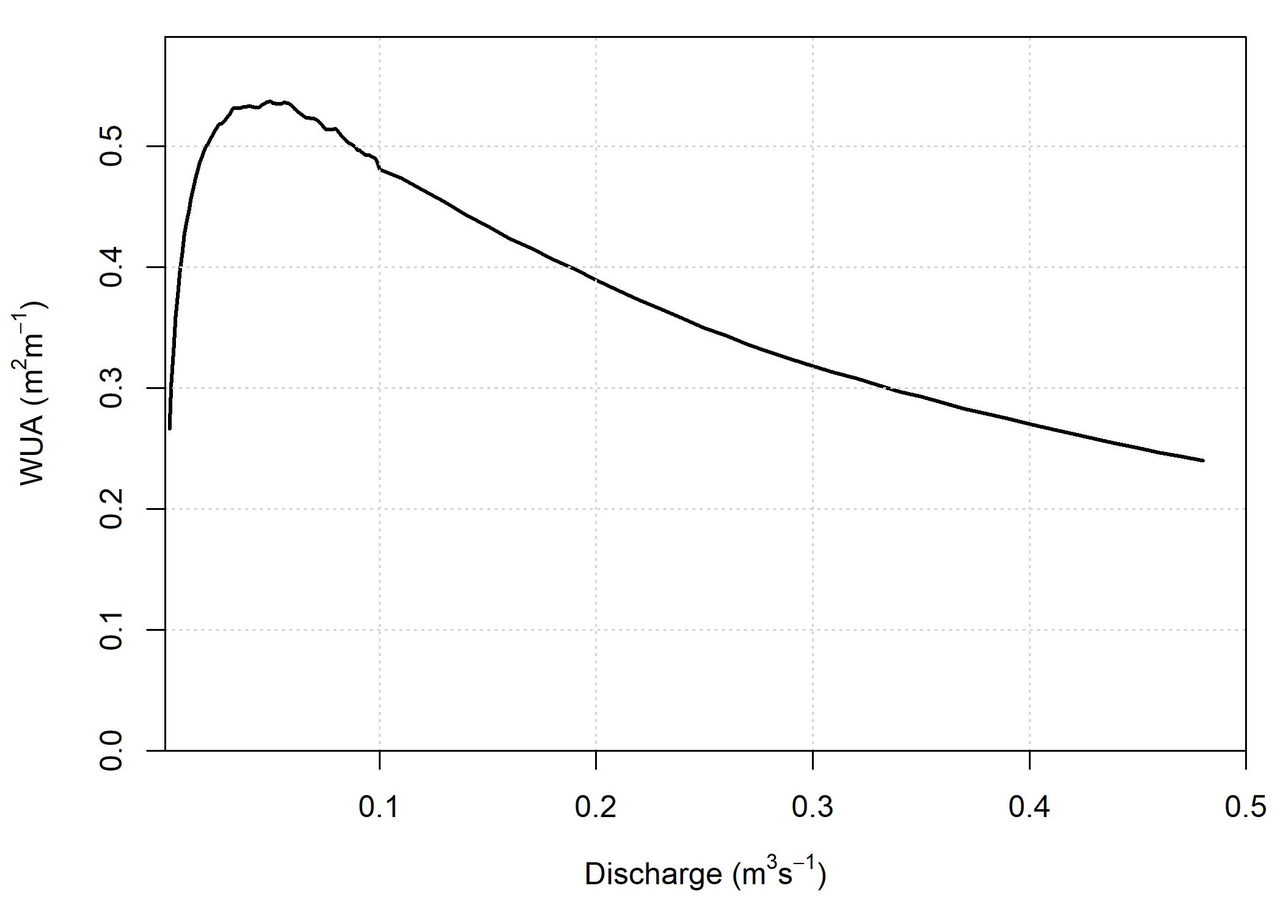
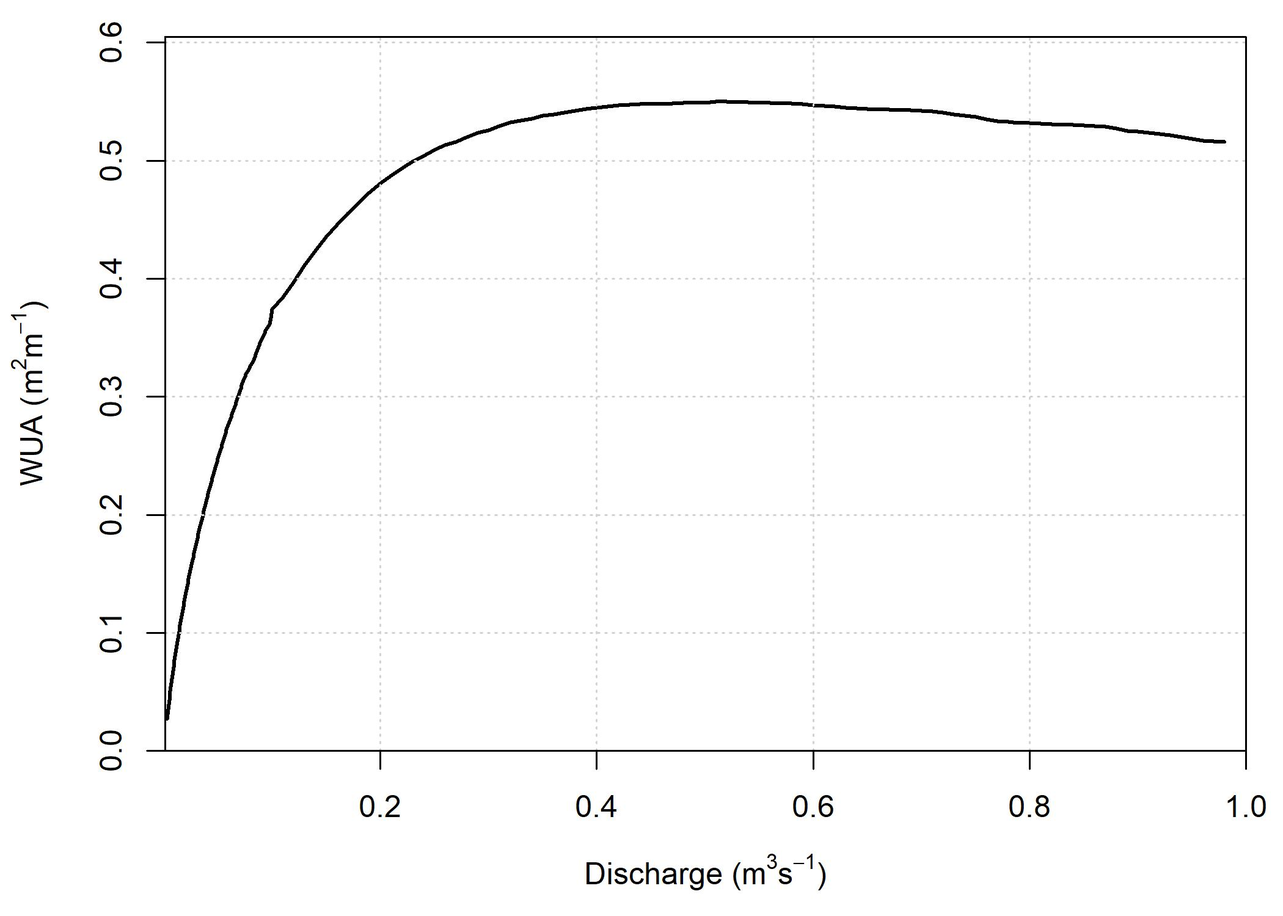
edits to guidance page of website

diff --git a/docs/guidance.html b/docs/guidance.html
@@ -314,29 +314,33 @@ $(document).ready(function () {
 <p><br> <br></p>
 <div id="introduction" class="section level1">
 <h1>Introduction</h1>
-<p>This page provides a guide for the use of the Geomorphic Approach for conducting instream flow assessments. Generally, the intent of instream flow assessments is to quantify available fish habitat at different flow levels using a metric called weighted usable area, (<em>WUA</em>). These relationships are often used to support water allocation and management decisions.</p>
-<p>There are two main components for determining the <em>WUA</em> of a stream: (1) hydraulic data to characterize the depth and velocity characteristics of the stream, and (2) a biological model that describe the relevant species’ preference for those hydraulic characteristics, known as habitat suitability curves (HSCs). Observations that characterize the substrate and cover characteristics and the associated fish preferences are also often used to calculate <em>WUA</em>.</p>
-<p>Instream flow assessments using conventional methodologies are time consuming and expensive to implement and they can only represent static channel conditions that represent a snapshot in time. The Geomorphic Approach has been designed to address these limitations. I can be implemented using minimal data which reduces the required fieldwork, data processing, and computing time, and provides considerable cost-savings compared to conventional approaches.</p>
-<p>The Geomorphic Approach has three distinct components: (1) a reach-averaged hydraulic simulator, (2) statistical distributions of depths and velocity that are used to calculate <em>WUA</em>, and (3) a geomorphic regime model that can be used to predict how environmental change could affect channel conditions. These instructions are primarily focused on the implementation of the hydraulic simulator and statistical distribution components of the Geomorphic Approach. Readers who are interested in the theoretical underpinnings of the this approach are referred to McParland et al. (2016) for information on the hydraulic simulator, Saraeva and Hardy (2009) and Schweizer et al. (2007) for information on the statistical distributions, and Eaton et al. (2004) for information on the regime model. Additionally, we are also in the process of conducting an evaluation of the Geomorphic Approach in eight streams located in western Canada. Once the findings of this evaluation become available we will share them on this webiste. Please check out the References tab for more links to these studies.</p>
+<p>This page provides a guide for the use of the Geomorphic Approach for conducting instream flow assessments. Generally, the intent of instream flow assessments is to quantify available fish habitat at different flow levels using a metric called weighted usable area (<em>WUA</em>). The results of instream flow assessments are often used to support water allocation and management decisions.</p>
+<p>There are two main components for determining the <em>WUA</em> of a stream: (1) hydraulic data to characterize the depth and velocity characteristics of the stream, and (2) a biological model that describe the relevant species’ preference for those hydraulic characteristics, known as habitat suitability curves (HSCs). Observations that characterize the substrate and cover characteristics and the associated fish preferences may also be used to calculate <em>WUA</em>.</p>
+<p>Instream flow assessments using conventional methods are time consuming and expensive to implement and they only represent static channel conditions that represent a snapshot in time. The Geomorphic Approach has been designed to address these limitations by improving the hydraulic components of instream flow assessments. It can be implemented using minimal field data, and requires significantly less data processing and computing time compared to conventional methods.</p>
+<p>The Geomorphic Approach has three distinct components:</p>
+<ol style="list-style-type: decimal">
+<li>A reach-averaged hydraulic simulator,</li>
+<li>statistical distributions of depths and velocity that are used to calculate <em>WUA</em>, and</li>
+<li>a geomorphic regime model that can be used to predict how environmental change could affect channel conditions.</li>
+</ol>
+<p>This guidance is focused on the implementation of the hydraulic simulator and statistical distribution components of the Geomorphic Approach. Readers who are interested in the theoretical underpinnings of the this approach are referred to McParland et al. (2016) for information on the hydraulic simulator, Saraeva and Hardy (2009) and Schweizer et al. (2007) for information on the statistical distributions, and Eaton et al. (2004) for information on the geomorphic regime model. An evaluation of the Geomorphic Approach in eight streams located in western Canada is also in progress. Once the findings of this evaluation become available they will be shared on this webiste. Please check out the References tab for more links to these studies.</p>
 <p><br></p>
 <div id="model-overview" class="section level2">
 <h2>Model Overview</h2>
-<p>The hydraulic data necessary to Geomorphic Approach execute the Geomorphic Approach can be collected during one field visit that does not have to coincide with specific flow conditions. To calculate <em>WUA</em>, users currently must upload their own HSCs. The Geomorphic Approach produces distributions of channel hydraulics at the reach scale. Currently, the Geomorphic Approach is unable to model the habitat conditions of individual channel units, such as pools or riffles.</p>
+<p>The hydraulic data necessary to execute the Geomorphic Approach can be collected during one field visit that does not have to coincide with specific flow conditions. To calculate <em>WUA</em>, users must define their own HSCs. The Geomorphic Approach produces distributions of channel hydraulics at the reach scale. Currently, the Geomorphic Approach is unable to model the habitat conditions of individual channel units, such as pools or riffles.</p>
 <p>The hydraulic simulator component of the Geomorphic Approach uses a reach-averaged channel cross section of bankfull geometry. Using the input data, an index of bankfull channel shape (<em>b</em>) is calculated that ranges from 0 (rectangular channel) to 1 (highly skewed channel). To simulate the hydraulics of flows below bankfull, the model iteratively drops the water level until the point of zero discharge. For each modelled water level, mean velocity and depth is calculated.</p>
-<p>Following the prediction of reach-averaged hydraulics, the next step is to apply statistical frequency distributions to represent reach-averaged variability. Depths are estimated using a normal-log-normal distribution and velocities are estimated using a normal-exponential distribution. The proportions of each distribution that are relevant to each flow are scaled by the Froude number. Following the application of the statistical frequency distributions, the resultant depth and velocity distributions can then be paired with user-specified habitat suitability curves to determine <em>WUA</em>.</p>
-<p>The third component of the Geomorphic Approach is the application of the UBC Regime Model (UBCRM). This model can be used to evaluate how environmental pertubations, such as climate and land-use change, are likely to affect bankfull parameters. The predicted channel geometry can then be used with the hydraulic simulator and the statistical frequency distributions to estimate the subsequent changes to fish habitat due to various environmental perturbations (i.e. ‘what-if’ scenarios). The UBCRM may also be used to estimate input parameters, in the event that no field observations are available.</p>
+<p>Following the prediction of reach-averaged hydraulics, the next step is to apply statistical frequency distributions to represent reach-averaged variability. The resultant depth and velocity distributions can then be paired with user-specified habitat suitability curves to determine <em>WUA</em>.</p>
+<p>The third component of the Geomorphic Approach is the application of the UBC Regime Model (UBCRM). This model can be used to evaluate how environmental pertubations, such as climate and land-use change, are likely to affect bankfull parameters. The predicted channel geometry can then be used with the hydraulic simulator and the statistical frequency distributions to estimate the subsequent changes to fish habitat due to various environmental perturbations (i.e. ‘what-if’ scenarios). The UBCRM may also be used to estimate input parameters if field observations are limited.</p>
 <p><br></p>
 </div>
 </div>
-<div id="how-to-use-the-geomorphic-approach" class="section level1">
-<h1>How to use the Geomorphic Approach</h1>
+<div id="applying-the-geomorphic-approach" class="section level1">
+<h1>Applying the Geomorphic Approach</h1>
+<p><br> ### Field Considerations</p>
+<p>There are many ways the Geomorphic Approach could be implemented. Field programs should be designed around project objectives. This section is intended to provide considerations for designing a field program, it is not a step-by-step guide for collecting field data.</p>
+<p>When planning a field trip to collect data to run the Geomorphic Approach, it is necessary to identify the study reach. Then, channel geometry can be characterized by collecting depth data along a series of transects. The location and the appropriate number of transects are dependent on factors such as desired accuracy, access, and time. A robust approach is to identify cross sections randomly within the reach, but that is not always practical. Another option is to characterize the study reach by channel units (mesohabitats), and then identify transects within those classifications using a stratified random approach. When collecting cross sections, be sure to note the estimated bankfull elevations on either side of the channel.</p>
+<p>Another key data requirement to execute the Geomorphic Approach is a representative grain size distribution, which is used to evaluate channel roughness and estimate velocity. This can be conducted using a Wolman pebble count, analysis of photographs, or visual estimation. Because the field work does not need to coincide with any particular flow, these data are most easily collected during open-water, low flow conditions. Coordinating a field visit during low flows would also likely coincide with the safest conditions for wading.</p>
 <p><br></p>
-<div id="field-considerations" class="section level3">
-<h3>Field Considerations</h3>
-<p>When planning a field trip to collect data to run the Geomorphic Approach, it is first necessary to identify the study reach. Then, the recommended approach is to set up a series of transects to collect stream cross sections to characterize the channel geometry. Factors such as desired accuracy, access, and time should all be considered when determining the location and the appropriate number of transects necessary to characterize the reach. Ideally, cross sections would be identified randomly within the reach, but that is not always practical. Another option is to characterize the study reach by channel units (mesohabitats), and then identify transects within those classifications using a stratified random approach. When collecting cross sections, be sure to note the estimated bankfull elevations on either side of the channel.</p>
-<p>Another key data requirement to execute the Geomorphic Approach is a grain size distribution, which is used to evaluate channel roughness and estimate velocity. This can be conducted using a Wolman pebble count, analysis of photographs, or visual estimation. Because the field work does not need to coincide with any particular flow, these data are most easily collected during open-water, low flow conditions. Coordinating a field visit during low flows would also coincide with the safest conditions for wading.</p>
-<p><br></p>
-</div>
 <div id="data-requirements" class="section level3">
 <h3>Data Requirements</h3>
 <p>The input parameters for the Geomorphic APproach are as follows:</p>
@@ -345,11 +349,11 @@ $(document).ready(function () {
 <li><strong>Bankfull width</strong>, <span class="math inline">\(W_b\)</span> (m). This field is mandatory.</li>
 <li><strong>Mean bankfull depth</strong>, <span class="math inline">\(d_b\)</span> (m). This field is mandatory.</li>
 <li><strong>Maximum bankfull depth,</strong> <span class="math inline">\(d_{max}\)</span> (m). This field is optional.</li>
-<li><strong>84th percentile of bed grain size</strong>, <span class="math inline">\(D_{84}\)</span> (mm) (the grain size of which 84% of the bed is finer).</li>
-<li><strong>Habitat Suitability Curves</strong>. These are only required if the Geomorphic Approach is to be used to calculate <em>WUA</em>. Further information regarding the format that these curves should be in is included in the description of the Habitat function, below.</li>
+<li><strong>84th percentile grain size</strong>, <span class="math inline">\(D_{84}\)</span> (mm) (the grain size of which 84% of the bed is finer).</li>
+<li><strong>Habitat Suitability Curves</strong>. These are required to calculate <em>WUA</em>. Further information regarding the format that these curves should be in is included in the description of the Habitat function, below.</li>
 <li><strong>Bankfull discharge</strong>, <span class="math inline">\(Q_{bf}\)</span>, is recommended, but is not required to run the hydraulic simulator. However, <span class="math inline">\(Q_{bf}\)</span> can be used to check that the bankfull dimensions generated by the model reflect empirical measurements. <span class="math inline">\(Q_{bf}\)</span> is necessary to run UBCRM.</li>
 </ul>
-<p>The channel dimensions are used to generate an index of channel shape, <em>b</em>. If only db is provided, then <em>b</em> is calculated as follows: <span class="math display">\[b = (W_b / d_b)\]</span> If <span class="math inline">\(d_{max}\)</span> is provided, then <em>b</em> is calculated as follows: <span class="math display">\[b = 1 - (d_b/d_{max})\]</span>. Alternatively, the R function allows the user to specify <em>b</em>, directly over-riding these functions. This option allows for Monte-Carlo or bootstrapping-type analyses to quantify uncertainty.</p>
+<p>The channel dimensions are used to generate an index of channel shape, <em>b</em>. If only db is provided, then <em>b</em> is calculated as follows: <span class="math display">\[b = (W_b / d_b)\]</span> If <span class="math inline">\(d_{max}\)</span> is provided, then <em>b</em> is calculated as follows: <span class="math display">\[b = 1 - (d_b/d_{max})\]</span>. Alternatively, the R function allows the user to specify <em>b</em>, directly over-riding these functions.</p>
 <p><br></p>
 </div>
 <div id="using-the-app" class="section level3">
@@ -370,7 +374,7 @@ library(GeomorphicApproach)</code></pre>
 <p><br></p>
 <div id="executing-the-hydraulic-simulator" class="section level4">
 <h4>Executing the Hydraulic Simulator</h4>
-<p>The first function in the Geomorphic Approach package is the ‘AvgHydraulics’ function that executes the hydraulic simulator and produces a data frame of outputs. The below code snippet provides an example of how to run the model. The following code snippets showcase the execution of the AvgHydraulics function. In this scenario, <span class="math inline">\(d_{max}\)</span> is not specified, so the function calculates <span class="math inline">\(b = (W_b / d_b)\)</span></p>
+<p>The first function in the Geomorphic Approach package is the ‘AvgHydraulics’ function that executes the hydraulic simulator and produces a data frame of outputs. The below code snippet provides an example of how to run the model. The following code snippets showcase the execution of the AvgHydraulics function. In this scenario, <span class="math inline">\(d_{max}\)</span> is not specified, so the function assumes <span class="math inline">\(b = (W_b / d_b)\)</span></p>
 <pre class="r"><code>hydraulics = AvgHydraulics(S = 0.01, wb = 10, db = 0.5, 
                            max_Q = 0.1, D84 = 100)
 head(hydraulics)</code></pre>
@@ -384,9 +388,9 @@ head(hydraulics)</code></pre>
 <p><br></p>
 <p>The idealized reach-cross section generated by this analysis is as follows: <img src="channel_xs_dmean.jpeg" width="70%" style="display: block; margin: auto;" /></p>
 <p><br></p>
-<p>Here, the <span class="math inline">\(d_{max}\)</span> term is specificied within the AvgHydraulics function call, so the function calculates <span class="math inline">\(b = 1 - (d_b/d_{max})\)</span>.</p>
+<p>Here, the <span class="math inline">\(d_{max}\)</span> term is specificied within the AvgHydraulics function call, so the function assumes <span class="math inline">\(b = 1 - (d_b/d_{max})\)</span></p>
 <pre class="r"><code>hydraulics = AvgHydraulics(S = 0.01, wb = 10, db = 0.5, db_max = 1.25,
-                           max_Q = 0.5, D84 = 100)
+                           max_Q = 0.1, D84 = 100)
 head(hydraulics)</code></pre>
 <pre><code>##       Q         Ai        Wi         di         Ui
 ## 1 0.001 0.01630011 0.2942534 0.05539035 0.06133074
@@ -398,24 +402,35 @@ head(hydraulics)</code></pre>
 <p><br></p>
 <p>The idealized reach-cross section generated by this analysis is as follows: <img src="channel_xs_dmax.jpeg" width="70%" style="display: block; margin: auto;" /></p>
 <p><br></p>
+<p>Users may also specify a b-value, thereby over-riding either formula.</p>
+<pre class="r"><code>hydraulics = AvgHydraulics(S = 0.01, wb = 10, db = 0.5, db_max = 1.25,
+                           max_Q = 0.1, D84 = 100, b_value = 0.2)</code></pre>
+<p><br></p>
 <p>This function outputs a figure of the cross-section of the idealized reach and a .csv file of the simluated reach-averaged hydraulics. This feature may be turned off by specifying xs_ouput = FALSE, like so:</p>
 <pre class="r"><code>hydraulics = AvgHydraulics(S = 0.01, wb = 10, db = 0.5, db_max = 1.25,
-                           max_Q = 0.5, D84 = 100, xs_output = FALSE)</code></pre>
+                           max_Q = 1, D84 = 100, xs_output = FALSE)</code></pre>
 <p><br></p>
 </div>
 <div id="execute-the-habitat-function" class="section level4">
 <h4>Execute the Habitat Function</h4>
-<p>The Habitat function applies statistical frequency distribution to the mean depths and velocities that are output by the hydraulic simulator function. These disitributions are then paired with user-specified habitat suitability curves to generate reach-averaged depth and velocity suitabilities. To estimate the <em>WUA</em> of the stream reach, these suitabilities are multiplied with the modelled stream width to develop a <em>WUA</em> value in m<sup>2</sup> / m. For further detail on the <em>WUA</em> calculations, refer to Gronsdahl et al.</p>
-<p>The input parameters for the Habitat function are as follows: * <strong>hydrualics</strong>, a data frame of outputs generated by the AvgHydraulics function. This field is mandatory. * <strong>d_curve</strong>, depth suitability curve. This should be a dataframe with two columns: ‘depth’ (m) and ‘suit’ (dimensionless suitability from 0-1). This field is mandatory. * <strong>v_curve</strong>, velocity suitability curve. This should be a dataframe with two columns: ‘velocity’ (m/s) and ‘suit’ (dimensionless suitability from 0-1). This field is mandatory. * <strong>s_curve</strong>, substrate suitability curve. This is a dataframe of substrate suitabilities with three columns: ‘lower’ (mm) and ‘upper’ (mm) of grain size classes and ‘suit’ (dimensionless suitability from 0-1). This field is optional. * <strong>gsd</strong>, vector of grain size distribution (mm). This field is optional.</p>
-<p>Here are some example input data used for the subsequent examples. We will use rainbow trout fry suitability curves generated by Ron Ptolemy, Instream Flow Specialist, B.C. Ministry of Environment.</p>
-<pre class="r"><code>d_curve = read.csv(&quot;depth_suit_ptolemy.csv&quot;) %&gt;% filter( species == &quot;rainbow&quot; &amp; life_stage == &quot;fry&quot;)
-v_curve = read.csv(&quot;velocity_suit_ptolemy.csv&quot;) %&gt;% filter( species == &quot;rainbow&quot; &amp; life_stage == &quot;fry&quot;)
-s_curve = read.csv(&quot;substrate_suit_ptolemy.csv&quot;)  %&gt;% filter( species == &quot;rainbow&quot; &amp; life_stage == &quot;fry&quot;)</code></pre>
-<p><img src="guidance_files/figure-html/unnamed-chunk-8-1.png" width="1440" /></p>
+<p>The Habitat function applies statistical frequency distribution to the mean depths and velocities that are output by the hydraulic simulator function. These disitributions are then paired with user-specified habitat suitability curves to generate reach-averaged depth and velocity suitabilities. To estimate the <em>WUA</em> of the stream reach, these suitabilities are multiplied with the modelled stream width to develop a <em>WUA</em> value in m<sup>2</sup> / m.</p>
+<p>The input parameters for the Habitat function are as follows:</p>
+<ul>
+<li><strong>hydrualics</strong>, a data frame of outputs generated by the AvgHydraulics function. This field is mandatory.</li>
+<li><strong>d_curve</strong>, depth suitability curve. This should be a dataframe with two columns: ‘depth’ (m) and ‘suit’ (dimensionless suitability from 0-1). This field is mandatory.</li>
+<li><strong>v_curve</strong>, velocity suitability curve. This should be a dataframe with two columns: ‘velocity’ (m/s) and ‘suit’ (dimensionless suitability from 0-1). This field is mandatory.</li>
+<li><strong>s_curve</strong>, substrate suitability curve. This is a dataframe of substrate suitabilities with three columns: ‘lower’ (mm) and ‘upper’ (mm) of grain size classes and ‘suit’ (dimensionless suitability from 0-1). This field is optional.</li>
+<li><strong>gsd</strong>, vector of grain size distribution (mm). This field is optional.</li>
+</ul>
+<p>Here are some example input data used for the subsequent examples. We will use rainbow trout parr suitability curves generated by Ron Ptolemy, Instream Flow Specialist, B.C. Ministry of Environment.</p>
+<pre class="r"><code>d_curve = read.csv(&quot;depth_suit_ptolemy.csv&quot;)%&gt;% filter(species == &quot;rainbow&quot; &amp; life_stage == &quot;parr&quot;)
+v_curve = read.csv(&quot;velocity_suit_ptolemy.csv&quot;)%&gt;% filter(species == &quot;rainbow&quot; &amp; life_stage == &quot;parr&quot;)
+s_curve = read.csv(&quot;substrate_suit_ptolemy.csv&quot;)%&gt;% filter(species == &quot;rainbow&quot; &amp; life_stage == &quot;parr&quot;)</code></pre>
+<p><img src="guidance_files/figure-html/unnamed-chunk-9-1.png" width="1440" /></p>
 <p><br></p>
 <p>The grain size distribution should be specified as a vector of numerical observations. For this example, a simulated disribution will be generated:</p>
-<pre class="r"><code>gsd = rnorm(100, mean = 50, sd = 25)</code></pre>
-<p><img src="guidance_files/figure-html/unnamed-chunk-10-1.png" width="480" style="display: block; margin: auto;" /></p>
+<pre class="r"><code>gsd = rnorm(100, mean = 75, sd = 25)</code></pre>
+<p><img src="guidance_files/figure-html/unnamed-chunk-11-1.png" width="480" style="display: block; margin: auto;" /></p>
 <p><br></p>
 <p>And to refresh our memory, here is what the hydraulics data looks like that we generated earlier.</p>
 <pre class="r"><code>head(hydraulics)</code></pre>
@@ -427,42 +442,35 @@ s_curve = read.csv(&quot;substrate_suit_ptolemy.csv&quot;)  %&gt;% filter( speci
 ## 5 0.005 0.04132429 0.4674906 0.08839363 0.12098222
 ## 6 0.006 0.04650925 0.4963660 0.09369717 0.12899463</code></pre>
 <p><br></p>
-<p>Now, lets execute the Habitat function using just depth and velocity</p>
-<pre class="r"><code>habitat = Habitat(hydraulics = hydraulics, d_curve = d_curve, v_curve = v_curve, max_Q = 0.5)
+<p>Here is an example of the execution of the Habitat function using just depth and velocity.</p>
+<pre class="r"><code>habitat = Habitat(hydraulics = hydraulics, d_curve = d_curve, v_curve = v_curve, max_Q = 0.1)
 head(habitat)</code></pre>
-<pre><code>##       Q    d.suit    v.suit s.suit         w       WUA
-## 1 0.001 0.7645594 0.7622849      1 0.2942534 0.1714944
-## 2 0.002 0.8076120 0.8038555      1 0.3579279 0.2323680
-## 3 0.003 0.8328306 0.8168291      1 0.4043525 0.2750730
-## 4 0.004 0.8407388 0.8482032      1 0.4413796 0.3147554
-## 5 0.005 0.8513508 0.8516587      1 0.4674906 0.3389588
-## 6 0.006 0.8535424 0.8550906      1 0.4963660 0.3622758</code></pre>
+<pre><code>##       Q    d.suit    v.suit s.suit         w        WUA
+## 1 0.001 0.2235340 0.2637040      1 0.2942534 0.01734530
+## 2 0.002 0.2729970 0.3416088      1 0.3579279 0.03337971
+## 3 0.003 0.3067178 0.3905200      1 0.4043525 0.04843312
+## 4 0.004 0.3312416 0.4333281      1 0.4413796 0.06335399
+## 5 0.005 0.3498271 0.4682544      1 0.4674906 0.07657874
+## 6 0.006 0.3673975 0.4926594      1 0.4963660 0.08984316</code></pre>
 <p><br></p>
-<p>It is also possible to define the grain size distribution and substrate suitability curves to include a reach-averaged substrate suitability.</p>
-<pre class="r"><code>habitat = Habitat(hydraulics = hydraulics, d_curve = d_curve, v_curve = v_curve, 
-                  s_curve = s_curve, gsd = gsd, max_Q = 0.5)
+<p>It is also possible to define the grain size distribution and substrate suitability curves to include a reach-averaged substrate suitability. Both grain size distribution and substrate suitability curve must be specified to generate a substrate suitability value for the reach.</p>
+<pre class="r"><code>habitat = Habitat(hydraulics = hydraulics, d_curve = d_curve, 
+                  v_curve = v_curve, s_curve = s_curve, gsd = gsd, max_Q = 1)
 head(habitat)</code></pre>
-<pre><code>##       Q    d.suit    v.suit s.suit         w       WUA
-## 1 0.001 0.7645594 0.7622849      1 0.2942534 0.1714944
-## 2 0.002 0.8076120 0.8038555      1 0.3579279 0.2323680
-## 3 0.003 0.8328306 0.8168291      1 0.4043525 0.2750730
-## 4 0.004 0.8407388 0.8482032      1 0.4413796 0.3147554
-## 5 0.005 0.8513508 0.8516587      1 0.4674906 0.3389588
-## 6 0.006 0.8535424 0.8550906      1 0.4963660 0.3622758</code></pre>
+<pre><code>##       Q    d.suit    v.suit s.suit         w         WUA
+## 1 0.001 0.2235340 0.2637040   0.57 0.2942534 0.009886822
+## 2 0.002 0.2729970 0.3416088   0.57 0.3579279 0.019026432
+## 3 0.003 0.3067178 0.3905200   0.57 0.4043525 0.027606876
+## 4 0.004 0.3312416 0.4333281   0.57 0.4413796 0.036111772
+## 5 0.005 0.3498271 0.4682544   0.57 0.4674906 0.043649882
+## 6 0.006 0.3673975 0.4926594   0.57 0.4963660 0.051210601</code></pre>
 <p><br></p>
 <p>The Habitat function outputs a streamflow - habitat curve to the working directory as well. This functionality can be overridden if ‘wua_output = FALSE’ is specified.</p>
 <p><img src="WUA_Q.jpeg" width="70%" style="display: block; margin: auto;" /></p>
-<p><br> <br></p>
-</div>
-</div>
-</div>
-<div id="references" class="section level1">
-<h1>References</h1>
-<p>Eaton, B., Church, M., &amp; Millar, R. (2004). Rational regime model of alluvial channel morphology and response. Earth Surface Processes and Landforms, 29(4): 511-529. <a href="https://doi.org/10.1002/esp.1062">https://doi.org/10.1002/esp.1062</a></p>
-<p>McParland, D., Eaton, B., &amp; Rosenfeld, J. 2016. At-a-station hydraulic geometry simulator. River Research and Applications 32, 399-410. <a href="https://doi.org/10.1002/rra.2851">https://doi.org/10.1002/rra.2851</a></p>
-<p>Saraeva, E. &amp; Hardy, T.B. 2009. Prediction of fisheries physical habitat values based on hydraulic geometry and frequency distributions of depth and velocity. International Journal of River Basin Management, 7(1): 31-41. <a href="https://doi.org/10.1080/15715124.2009.9635368">https://doi.org/10.1080/15715124.2009.9635368</a></p>
-<p>Schweizer, S., Borusk, M.E., Jowett, I., &amp; Reichert, P. (2007). Predicting joint frequency distributions of depth and velocity for instream habitat assessment. River Research and Applications, 23: 287-302. <a href="https://doi.org/10.1002/rra.980">https://doi.org/10.1002/rra.980</a></p>
+<p><br></p>
 <hr />
+</div>
+</div>
 </div>
 
 

diff --git a/docs/references.html b/docs/references.html
@@ -311,10 +311,10 @@ $(document).ready(function () {
 </div>
 
 
-<p><br> <br> <br> <br></p>
+<p><br> <br> <br></p>
 <p>Eaton, B., Church, M., &amp; Millar, R. (2004). Rational regime model of alluvial channel morphology and response. Earth Surface Processes and Landforms, 29(4): 511-529. <a href="https://doi.org/10.1002/esp.1062">https://doi.org/10.1002/esp.1062</a></p>
-<p>McParland, D., Eaton, B., &amp; Rosenfeld, J. 2016. At-a-station hydraulic geometry simulator. River Research and Applications 32, 399-410. <a href="https://doi.org/10.1002/rra.2851">https://doi.org/10.1002/rra.2851</a></p>
-<p>Saraeva, E. &amp; Hardy, T.B. 2009. Prediction of fisheries physical habitat values based on hydraulic geometry and frequency distributions of depth and velocity. International Journal of River Basin Management, 7(1): 31-41. <a href="https://doi.org/10.1080/15715124.2009.9635368">https://doi.org/10.1080/15715124.2009.9635368</a></p>
+<p>McParland, D., Eaton, B., &amp; Rosenfeld, J. (2016). At-a-station hydraulic geometry simulator. River Research and Applications 32, 399-410. <a href="https://doi.org/10.1002/rra.2851">https://doi.org/10.1002/rra.2851</a></p>
+<p>Saraeva, E. &amp; Hardy, T.B. (2009). Prediction of fisheries physical habitat values based on hydraulic geometry and frequency distributions of depth and velocity. International Journal of River Basin Management, 7(1): 31-41. <a href="https://doi.org/10.1080/15715124.2009.9635368">https://doi.org/10.1080/15715124.2009.9635368</a></p>
 <p>Schweizer, S., Borusk, M.E., Jowett, I., &amp; Reichert, P. (2007). Predicting joint frequency distributions of depth and velocity for instream habitat assessment. River Research and Applications, 23: 287-302. <a href="https://doi.org/10.1002/rra.980">https://doi.org/10.1002/rra.980</a></p>
 <p><br> <br> <br></p>
 <p><img src="river2.jpg" width="95%" style="display: block; margin: auto;" /></p>
